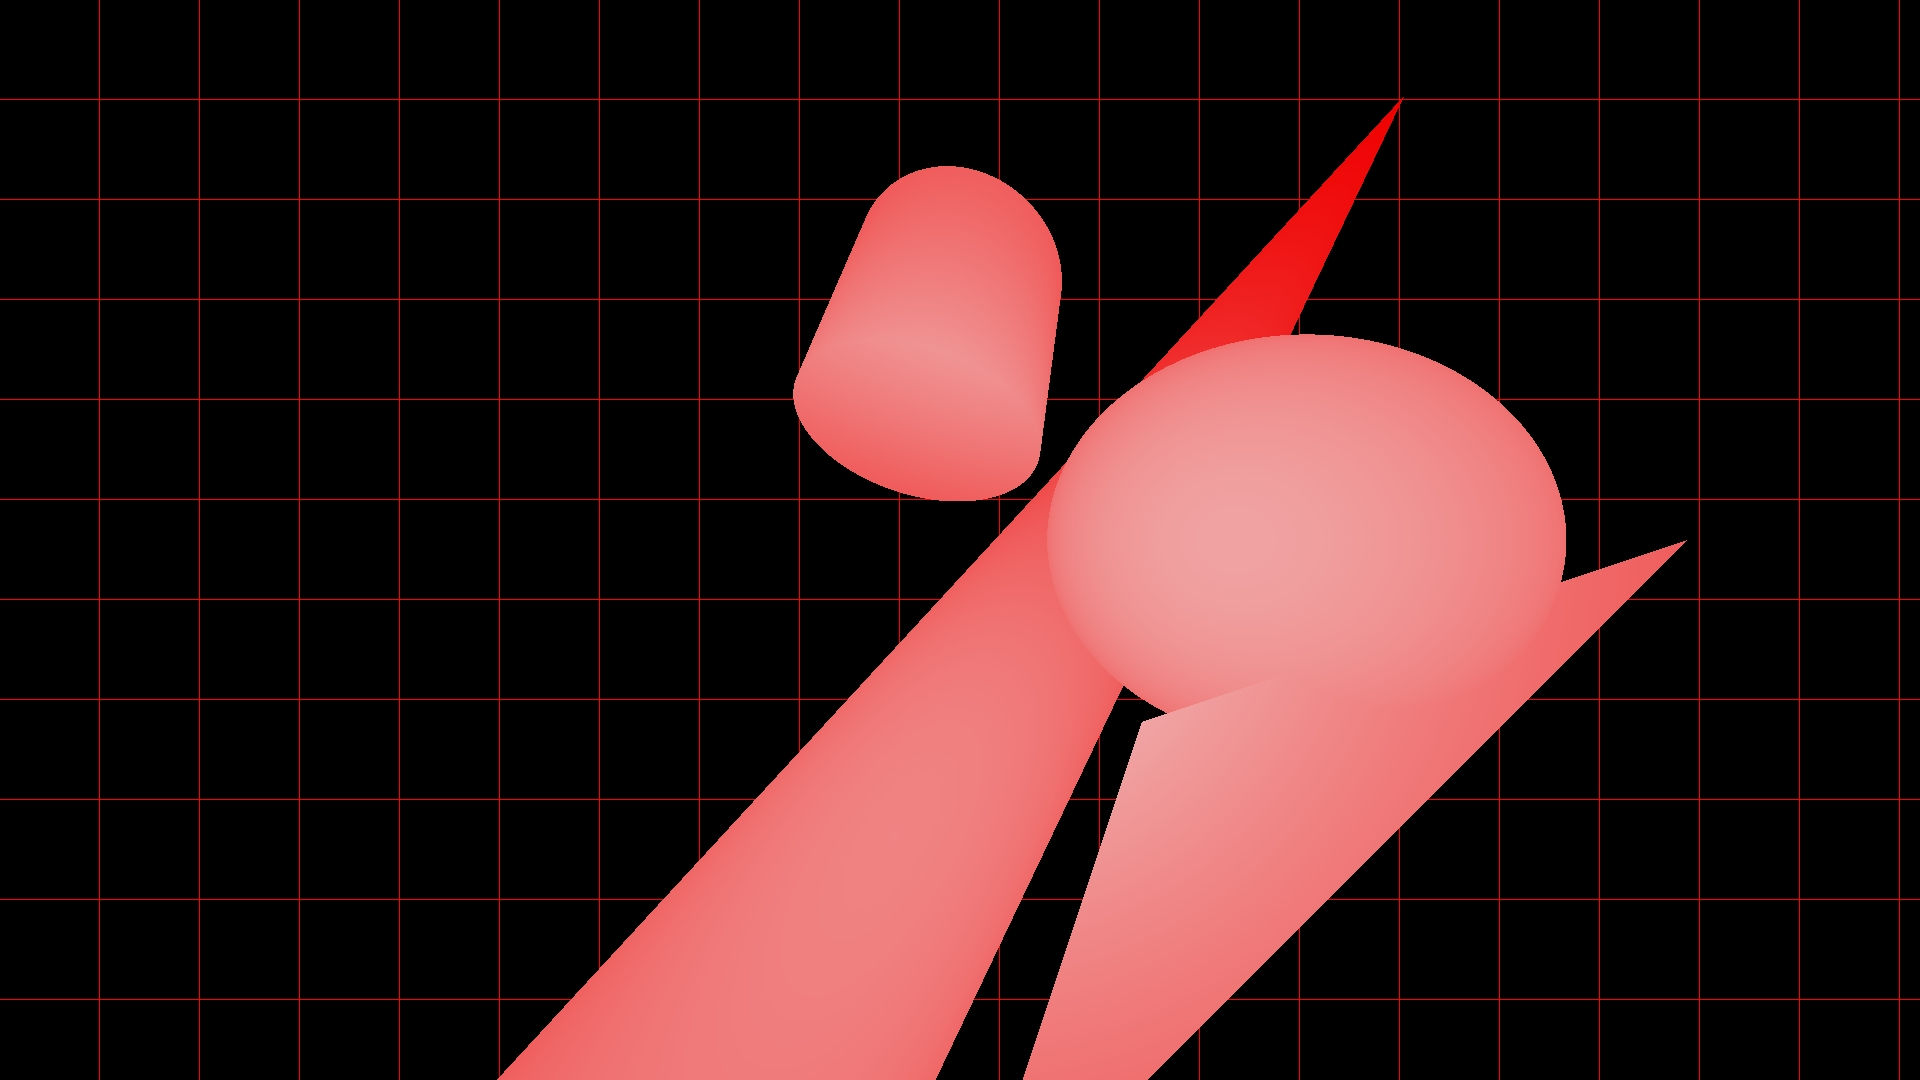
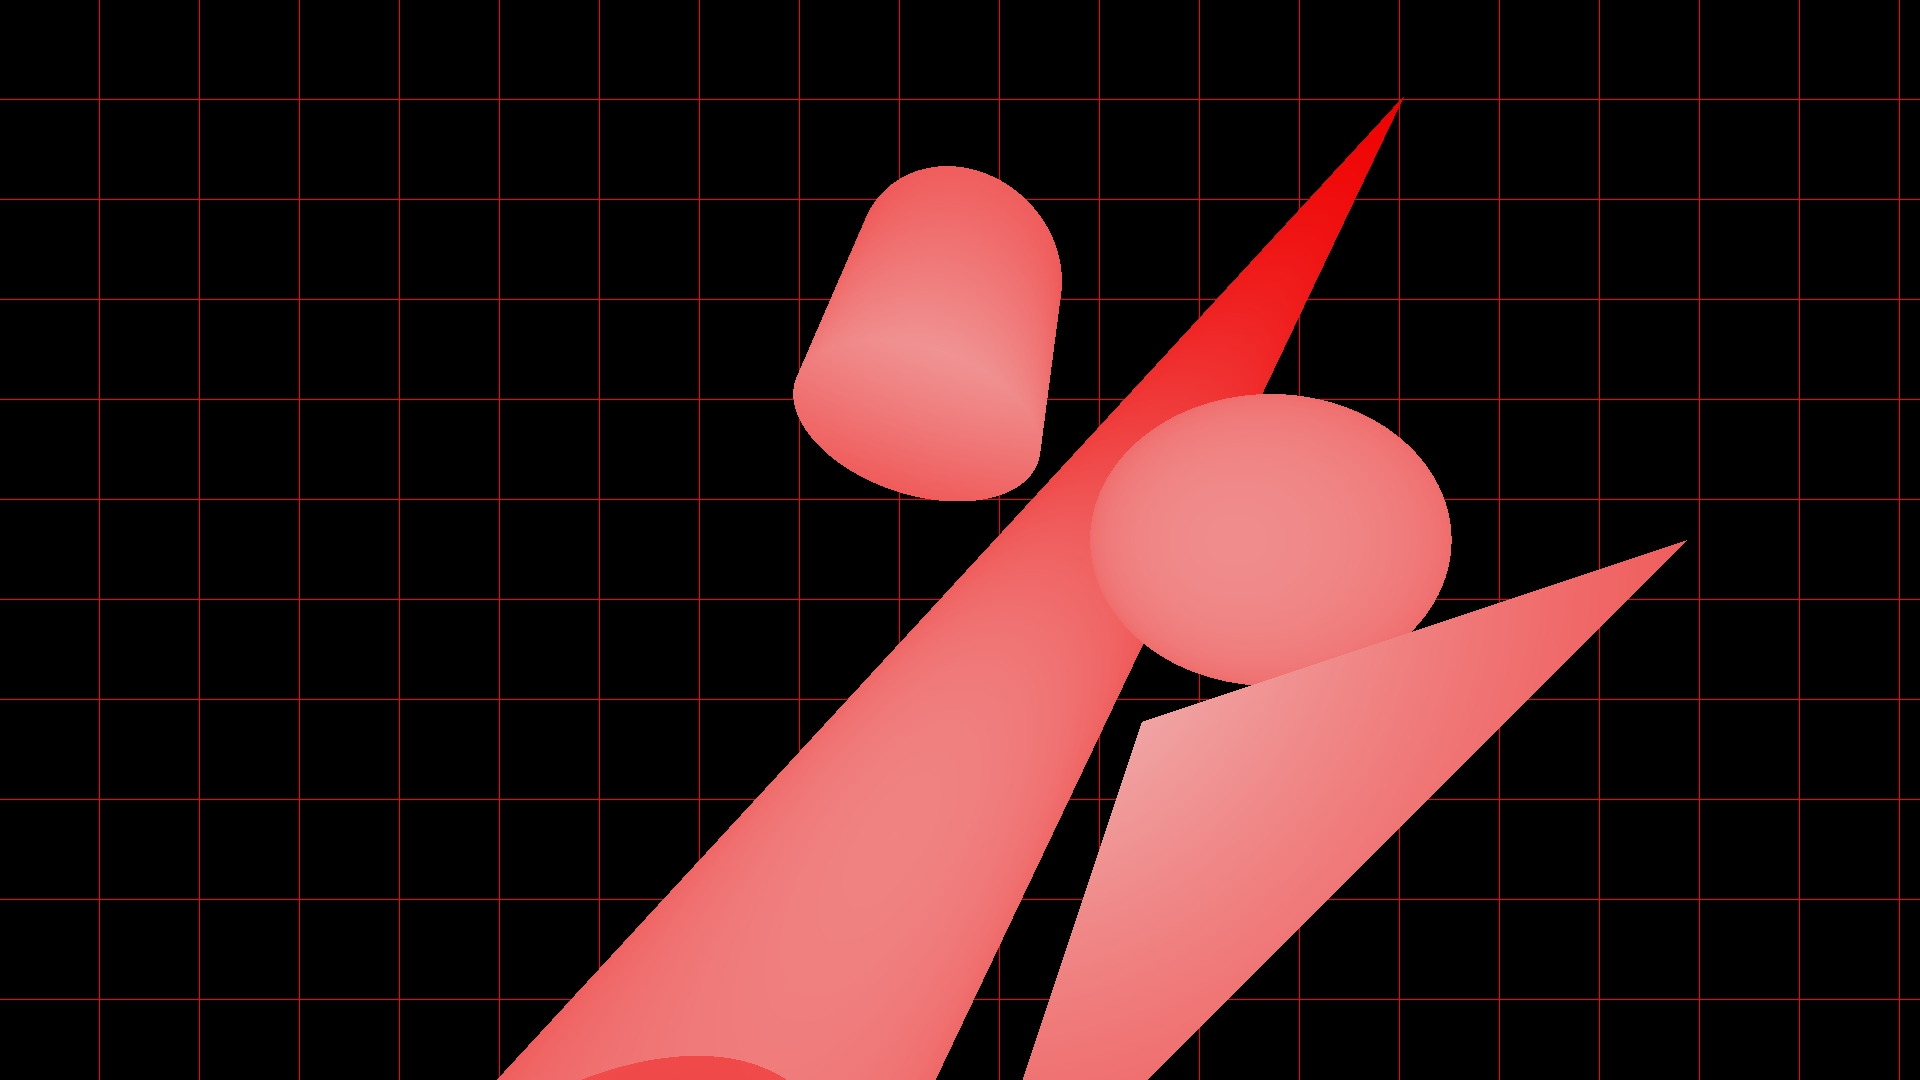
Fix Ray start point

Changed region(s): [[0.5312, 0.3056, 0.8125, 0.6722], [0.3125, 0.9778, 0.4062, 1.0]]

diff --git a/src/test/CameraTest.java b/src/test/CameraTest.java
@@ -18,15 +18,15 @@ public class CameraTest {
     public void constructRayThroughPixel() {
         //Test 3x3 plane
         Camera cam = new Camera(new Point3D(0, 0, 0), new Vector(0, 1, 0), new Vector(0, 0, -1));
-        Ray r1 = new Ray(new Point3D(0, 0, 0), new Vector(-3, 3, -1));
-        Ray r2 = new Ray(new Point3D(0, 0, 0), new Vector(0, 3, -1));
-        Ray r3 = new Ray(new Point3D(0, 0, 0), new Vector(3, 3, -1));
-        Ray r4 = new Ray(new Point3D(0, 0, 0), new Vector(-3, 0, -1));
-        Ray r5 = new Ray(new Point3D(0, 0, 0), new Vector(0, 0, -1));
-        Ray r6 = new Ray(new Point3D(0, 0, 0), new Vector(3, 0, -1));
-        Ray r7 = new Ray(new Point3D(0, 0, 0), new Vector(-3, -3, -1));
-        Ray r8 = new Ray(new Point3D(0, 0, 0), new Vector(0, -3, -1));
-        Ray r9 = new Ray(new Point3D(0, 0, 0), new Vector(3, -3, -1));
+        Ray r1 = new Ray(new Point3D(-3.0,3.0,-1.0), new Vector(-3, 3, -1));
+        Ray r2 = new Ray(new Point3D(0.0,3.0,-1.0), new Vector(0, 3, -1));
+        Ray r3 = new Ray(new Point3D(3.0,3.0,-1.0), new Vector(3, 3, -1));
+        Ray r4 = new Ray(new Point3D(-3.0,0.0,-1.0), new Vector(-3, 0, -1));
+        Ray r5 = new Ray(new Point3D(0.0,0.0,-1.0), new Vector(0, 0, -1));
+        Ray r6 = new Ray(new Point3D(3.0,0.0,-1.0), new Vector(3, 0, -1));
+        Ray r7 = new Ray(new Point3D(-3.0,-3.0,-1.0), new Vector(-3, -3, -1));
+        Ray r8 = new Ray(new Point3D(0.0,-3.0,-1.0), new Vector(0, -3, -1));
+        Ray r9 = new Ray(new Point3D(3.0,-3.0,-1.0), new Vector(3, -3, -1));
 
         assertEquals("Test 3x3 plane 0,0", r1, cam.constructRayThroughPixel(3, 3, 0, 0, 1, 9, 9));
         assertEquals("Test 3x3 plane 1,0", r2, cam.constructRayThroughPixel(3, 3, 1, 0, 1, 9, 9));
@@ -40,10 +40,10 @@ public class CameraTest {
 
         //test 4x4 plane
         cam = new Camera(new Point3D(0, 0, 0), new Vector(0, 1, 0), new Vector(0, 0, -1));
-        r1 = new Ray(new Point3D(0, 0, 0), new Vector(-4.5, 4.5, -1));
-        r2 = new Ray(new Point3D(0, 0, 0), new Vector(-1.5, 1.5, -1));
-        r3 = new Ray(new Point3D(0, 0, 0), new Vector(1.5, -1.5, -1));
-        r4 = new Ray(new Point3D(0, 0, 0), new Vector(4.5, -4.5, -1));
+        r1 = new Ray(new Point3D(-4.5,4.5,-1.0), new Vector(-4.5, 4.5, -1));
+        r2 = new Ray(new Point3D(-1.5,1.5,-1.0), new Vector(-1.5, 1.5, -1));
+        r3 = new Ray(new Point3D(1.5,-1.5,-1.0), new Vector(1.5, -1.5, -1));
+        r4 = new Ray(new Point3D(4.5,-4.5,-1.0), new Vector(4.5, -4.5, -1));
 
         assertEquals("Test 4x4 plane 0,0", r1, cam.constructRayThroughPixel(4, 4, 0, 0, 1, 12, 12));
         assertEquals("Test 4x4 plane 1,1", r2, cam.constructRayThroughPixel(4, 4, 1, 1, 1, 12, 12));
@@ -68,7 +68,7 @@ public class CameraTest {
         }
 
         //Check all rays intersect Sphere
-        Sphere sp = new Sphere(30, new Point3D(0, 0, -30.5));
+        Sphere sp = new Sphere(100, new Point3D(0, 0, -101));
         for (int i = 0; i < 9; i++) {
             list.addAll(sp.findIntersections(rays[i]));
         }
@@ -76,7 +76,7 @@ public class CameraTest {
 
         //Check 5 rays intersect Sphere
         list.clear();
-        sp = new Sphere(10, new Point3D(0, 0, -10.5));
+        sp = new Sphere(19, new Point3D(0, 0, -20));
         for (int i = 0; i < 9; i++) {
             list.addAll(sp.findIntersections(rays[i]));
         }
@@ -84,7 +84,7 @@ public class CameraTest {
 
         //Check only middle ray intersects Sphere
         list.clear();
-        sp = new Sphere(5, new Point3D(0, 0, -5.5));
+        sp = new Sphere(4.5, new Point3D(0, 0, -5.5));
         for (int i = 0; i < 9; i++) {
             list.addAll(sp.findIntersections(rays[i]));
         }
@@ -104,7 +104,7 @@ public class CameraTest {
         for (int i = 0; i < 9; i++) {
             list.addAll(sp.findIntersections(rays[i]));
         }
-        assertEquals("Check view plane inside Sphere 2", 2, list.size());
+        assertEquals("Check view plane inside Sphere 2", 1, list.size());
 
         //Check Sphere behind view plane
         list.clear();

diff --git a/src/com/miniproject/Main.java b/src/com/miniproject/Main.java
@@ -25,7 +25,7 @@ public class Main {
         Camera cam = new Camera(startP,new Vector(0,1,0),new Vector(0,0,-1));
         Geometries geo = new Geometries(new Tube(54.96,new Ray(new Point3D(0,-100,-200),new Vector(1,1,-0.9))));
         geo.add(new Cylinder(54.96,new Ray(new Point3D(-10,90,-200),new Vector(0.2,1,-0.4)),100));
-        geo.add(new Sphere(80,new Point3D(120,0,-175)));
+        geo.add(new Sphere(60,new Point3D(120,0,-175)));
         geo.add(new Triangle(new Point3D(50,-50,-110),new Point3D(200,0,-110),new Point3D(0,-200,-110)));
 
         for(int x = 0;x<width;x++){

diff --git a/src/geometries/Triangle.java b/src/geometries/Triangle.java
@@ -89,7 +89,7 @@ public class Triangle extends Plane implements Geometry{
             return EMPTY_LIST;
 
         Point3D planeP = list.get(0); // intersection point with the plane of the triangle
-        Point3D rayP = ray.getPoint3D(); //get ray point
+        Point3D rayP = ray.getPoint3D().subtract(ray.getVector()); //get a point before the original ray point
 
         /*
         check if the intersection point is inside the triangle

diff --git a/src/elements/Camera.java b/src/elements/Camera.java
@@ -110,6 +110,6 @@ public class Camera {
 
         //create ray and return
         Vector vectorIJ = pointIJ.subtract(_p0);
-        return  new Ray(_p0,vectorIJ);
+        return  new Ray(pointIJ,vectorIJ);
     }
 }
